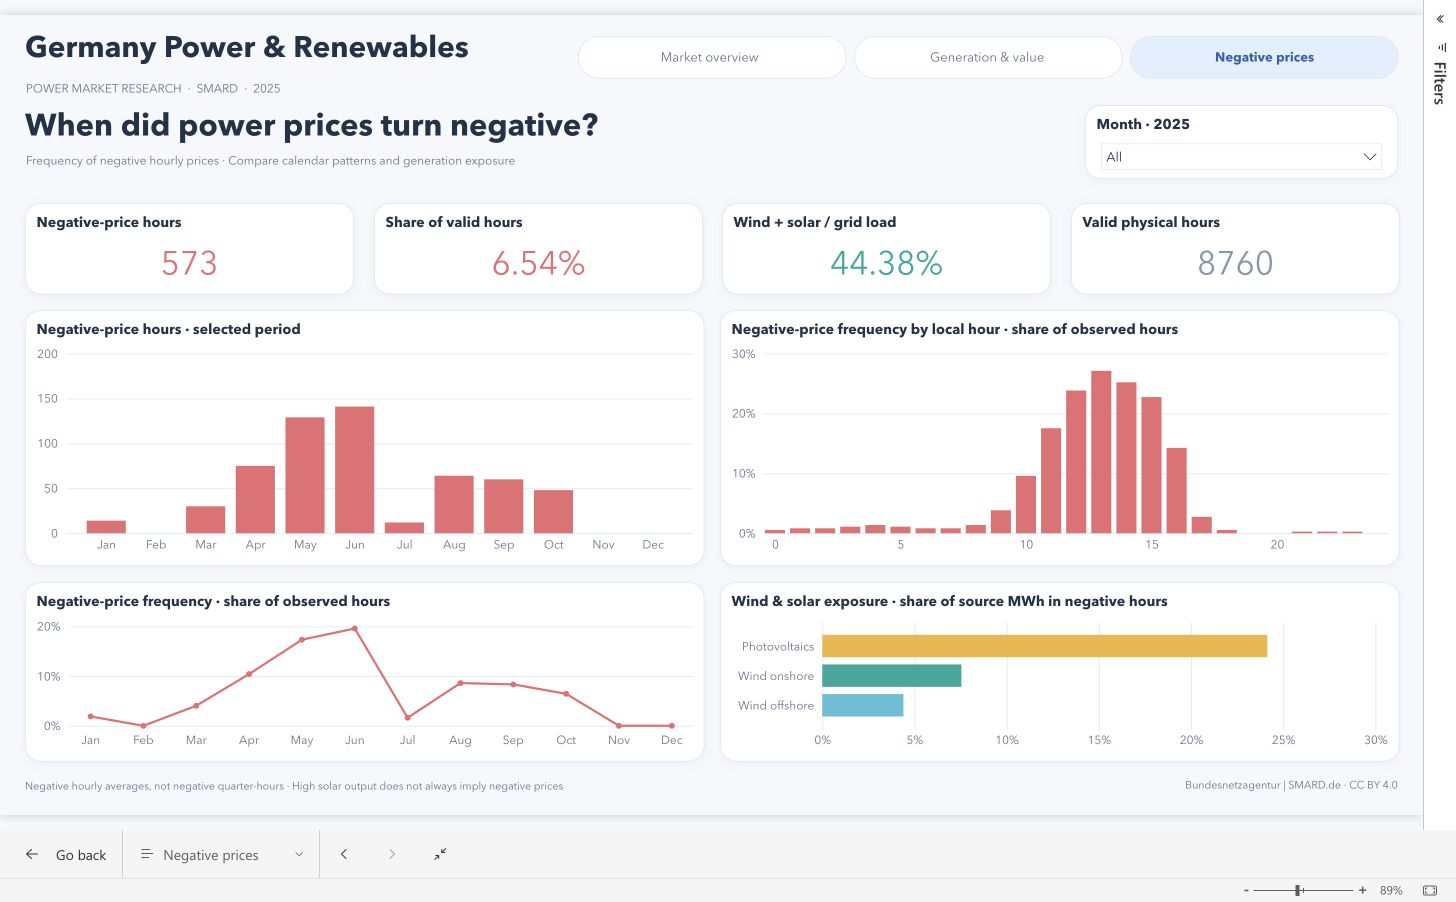
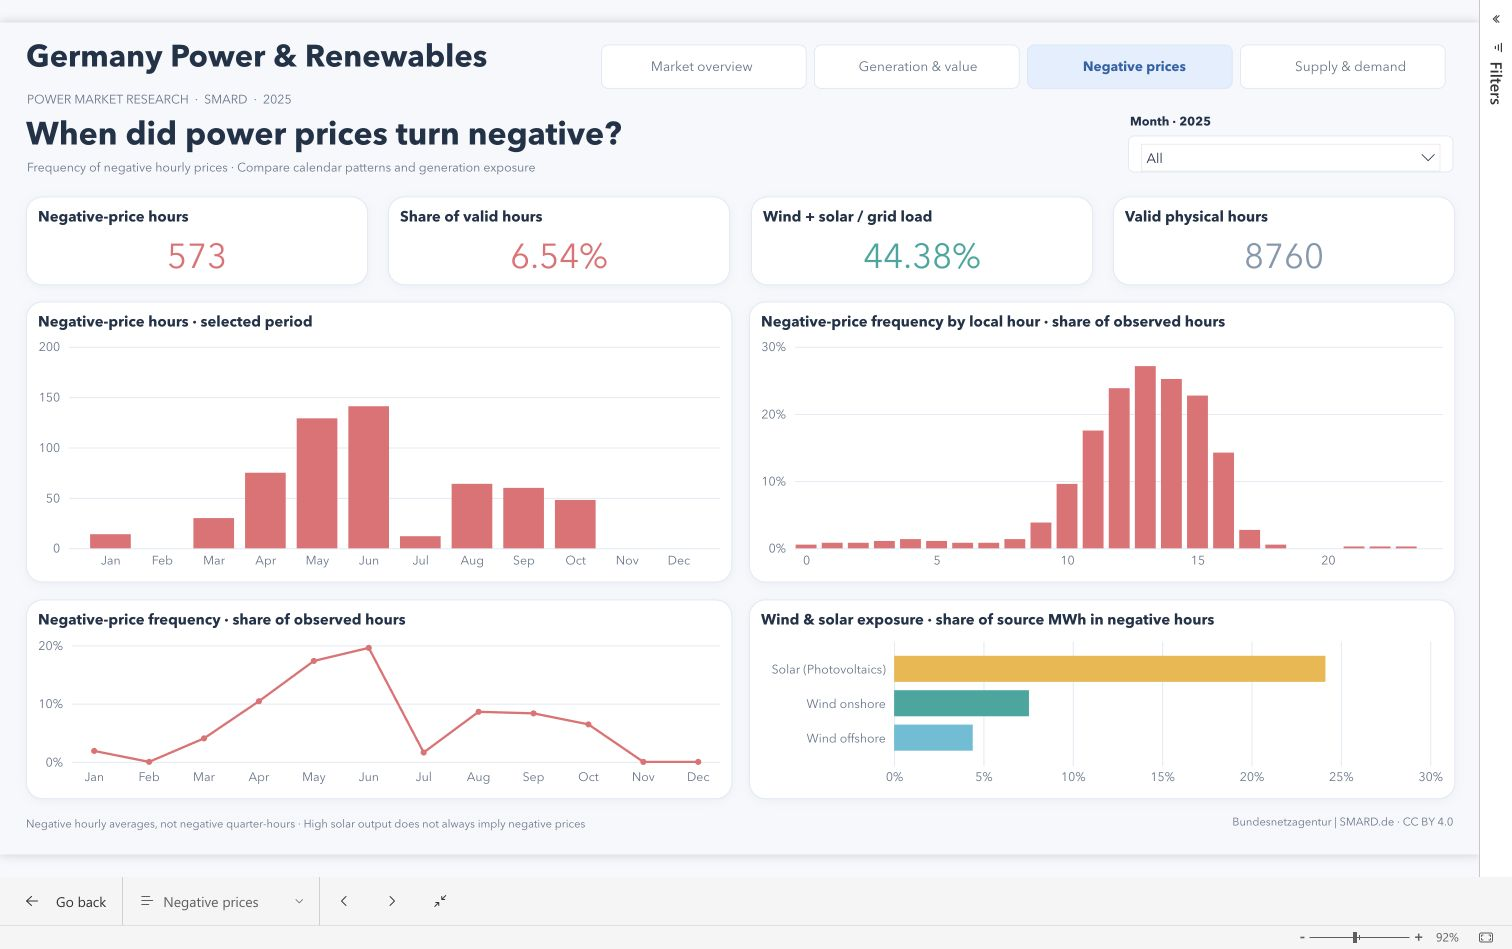
Document verified four-page report and capture Fabric evidence

diff --git a/README.md b/README.md
@@ -1,6 +1,6 @@
 # Germany Power & Renewables
 
-An applied research project examining how renewable generation and electricity demand align with German day-ahead prices. Microsoft Fabric provides the data preparation and validation environment; the Fabric-backed semantic model and three-page Power BI report are implemented, while unauthenticated public publication remains planned.
+An applied research project examining how renewable generation and electricity demand align with German day-ahead prices. Microsoft Fabric provides the data preparation and validation environment; the Fabric-backed semantic model and four-page Power BI report are implemented, while unauthenticated public publication remains planned.
 
 ## Research questions
 
@@ -40,11 +40,13 @@ The notebook collection separates source profiling, silver preparation, explorat
 
 The workspace is connected to GitHub. The `fabric/` directory contains the authoritative Fabric item definitions; `notebooks/` contains portable, output-free exports derived from that source. Captured outputs remain in `evidence/`, because Fabric Git integration versions source rather than notebook outputs. Source profiling and exploration are separate from the build flow. The silver build contains only input validation, transformation, quality gates and table publication; every code cell is part of the job.
 
-The semantic model `sm_power_renewables` contains five gold-model relationships and nineteen core measures, plus presentation metadata and nine report measures for the adaptive axis, colors and icons. The author confirmed the headline values in Fabric, and browser checks of the connected report verified annual totals, solar capture metrics, source selection and a June date filter. The [native report definition](fabric/rpt_power_renewables.Report) contains three pages: Market overview, Generation & value, and Negative prices. The visual style follows the author's Global Critical Materials report, with a cool white canvas, blue price series, gold solar output, teal wind and coral negative-price frequency.
+The semantic model `sm_power_renewables` contains five gold-model relationships and nineteen core measures, plus presentation metadata, nine report measures for the adaptive axis/colors/icons, and eight descriptive supply-and-demand measures. The author confirmed the headline values in Fabric, and browser checks of the connected report verified annual totals, solar capture metrics, source selection and a June date filter. The [native report definition](fabric/rpt_power_renewables.Report) contains four pages: Market overview, Generation & value, Negative prices, and Supply & demand. The Supply & demand page compares hourly price with residual load, wind and solar, and includes a month-by-local-hour mean-price heatmap. Its raw Pearson correlations are descriptive and recalculate for the month filter.
+
+The visual style follows the author's Global Critical Materials report, with a cool white canvas, blue price series, gold solar output, teal wind and coral negative-price frequency.
 
 ![Market overview rendered in Fabric](evidence/powerbi/01_market_overview.png)
 
-The report uses the existing Direct Lake model over gold; it contains no embedded copy of the source CSVs. Month selectors use calendar names and filter the individual page. A single selected month switches the timeline to days; multiple months use monthly values. Source colors and SVG icons are defined once in three small presentation tables; the five gold tables remain in Direct Lake mode. The generation-source selector changes the selected-source charts and cards, while the comparison table retains all sources for the selected months. Chart clicks do not cross-filter unrelated KPIs. Nuclear remains unavailable and is omitted where every measure is blank. Price exposure is not realized revenue or profit.
+The report uses the existing Direct Lake model over gold; it contains no embedded copy of the source CSVs. Generation-mix bars show percentages of reported generation, with TWh in tooltips; the denominator includes observed pumped-storage output and retains unavailable nuclear values as missing. Month selectors use calendar names and filter the individual page. A single selected month switches the timeline to days; multiple months use monthly values. Source colors and SVG icons are defined once in three small presentation tables; the five gold tables remain in Direct Lake mode. The generation-source selector changes the selected-source charts and cards, while the comparison table retains all sources for the selected months. Chart clicks do not cross-filter unrelated KPIs. Nuclear remains unavailable and is omitted where every measure is blank. Price exposure is not realized revenue or profit.
 
 Data Factory orchestration, unauthenticated public report publication and video remain planned deliverables. No pipeline execution or public access is claimed. The [semantic specification](model/semantic_model_spec.json), [measure definitions](model/semantic_measures.dax) and browser screenshots document the implemented components.
 

diff --git a/research/metrics_and_figures.md b/research/metrics_and_figures.md
@@ -124,10 +124,20 @@ The day-ahead price is formed before actual delivery. Actual generation and actu
 
 ## Interactive report: questions and interpretation
 
-The three report pages separate market context, source timing value and negative-price exposure. They answer different questions rather than presenting a causal price model. The market page compares price and load profiles with the full reported generation mix. The value page compares technologies against the same market-price benchmark. The negative-price page separates frequency in time from exposure weighted by source energy.
+The report separates market context, source timing value, negative-price exposure and supply-and-demand associations across four pages. They answer different questions rather than presenting a causal price model. The market page compares price and load profiles with the full reported generation mix. The value page compares technologies against the same market-price benchmark. The negative-price page separates frequency in time from exposure weighted by source energy.
 
 The annual load-weighted price of 92.42 EUR/MWh exceeds the time average of 89.32 by 3.10 EUR/MWh: consumption is relatively concentrated in more expensive hours. Solar captures 46.07 EUR/MWh, or 51.58% of the benchmark; combined wind captures 78.93, or approximately 88.37%. These describe profile value and are not profit margins. Negative prices occur in 6.54% of hours, but coincide with 24.13% of solar generation, indicating concentrated solar exposure. Pumped-storage output captures a high price, but pumping input costs, round-trip losses and operating costs are missing, so profitability cannot be inferred.
 
 The refreshed report uses full month names sorted chronologically. A single selected month switches the timeline to physical local dates; multiple months or the full year use monthly values. Every displayed price or ratio is recomputed at that grain. Daily negative-price shares use the actual 23, 24 or 25 physical hours, and capture rate remains unavailable when the selected period's benchmark is non-positive.
 
-Useful extensions on the existing data include a supply-and-demand page with residual load versus price, month-by-local-hour heatmaps, daily price distributions and the duration of negative-price episodes. Fuel prices, forecasts, flows and outages would support broader explanatory work. Their absence prevents causal attribution to a single technology, and the hourly export cannot recover quarter-hour settlement exposures.
+Further extensions on the existing data include daily price distributions and the duration of negative-price episodes. Fuel prices, forecasts, flows and outages would support broader explanatory work. Their absence prevents causal attribution to a single technology, and the hourly export cannot recover quarter-hour settlement exposures.
+
+## Supply & demand report page
+
+The three scatter plots place price on the vertical axis and residual load, wind or solar on the horizontal axis. Their details key is the UTC physical-hour key; power is expressed as average GW over each one-hour interval. A 10,000-point visual limit is configured for the 8,760-hour snapshot, while native high-density rendering may sample or merge overlapping points. The correlation cards use all valid selected hourly observations, independently of the rendered point selection.
+
+The price heatmap contains 12 calendar months and 24 local hours. Each cell is the time-average hourly exported day-ahead price for that month-hour group. For example, June at 13:00 averages -10.09 EUR/MWh across 30 hours, while June's overall average is 63.99. The blue cells denote a negative mean, not the frequency of negative hours. The five fixed bands are below 0, 0–50, 50–100, 100–150 and at least 150 EUR/MWh. DST coverage remains physical: March at 02:00 contains 30 hours and October at 02:00 contains 32. The March and October example means are 90.85 and 60.11 EUR/MWh.
+
+The generation-mix chart now plots each source as a share of all reported generation. Both the original source dimension and the presentation source dimension are removed from the denominator; month and market filters remain. This prevents each bar becoming 100% when the presentation source dimension drives the axis. Percentages can differ from 100% in the displayed sum due to rounding; TWh remains in tooltips.
+
+Additional hour-of-day views remain candidates, not implemented features: a typical-day mean price profile with percentile bands; average wind, solar, load and residual-load profiles; a daily date-by-hour price heatmap for the selected month; and generation-weighted negative-price exposure by hour. These distinguish calendar patterns, within-month variation and the timing of source volumes.

diff --git a/evidence/powerbi/README.md b/evidence/powerbi/README.md
@@ -10,7 +10,7 @@ Market and load-weighted prices, German grid load, renewable share of observed g
 
 ## Generation and value
 
-The selected source defaults to Solar (photovoltaics). Each source has a fixed color and an original inline SVG icon; the selected-source cards and charts reuse that color. The cards and monthly charts use the selected source. The comparison table retains all sources for the selected months. Capture price is generation-weighted day-ahead price exposure, not realized generator revenue or profit. Capture rate is a ratio to the same period's market average.
+The selected source defaults to Solar (Photovoltaics). Each source has a fixed color and an original inline SVG icon; the selected-source cards and charts reuse that color. The cards and monthly charts use the selected source. The comparison table retains all sources for the selected months. Capture price is generation-weighted day-ahead price exposure, not realized generator revenue or profit. Capture rate is a ratio to the same period's market average.
 
 ![Generation and value in Fabric](02_generation_value.png)
 
@@ -22,10 +22,18 @@ Counts and shares refer to negative hourly exported price values. The local-hour
 
 The report currently requires workspace authentication. An unauthenticated public link and walkthrough video have not been created. The source design follows the author's [Global Critical Materials](https://github.com/anastasia-klein/global-critical-materials-intelligence) report, with an expanded palette for electricity-market analysis.
 
-## Presentation update, 10 November 2026
+## Presentation update, verified 11 November 2026
 
-The refreshed report uses a cool white background and rounded, lightly tinted navigation. The declared font stack is `'Avenir Next', Arial, sans-serif`; the intended Mac rendering was checked in the browser, while other operating systems and server-side exports can use a fallback. Technical architecture text was removed from the page footer; its evidence remains in source definitions and this directory.
+The refreshed report uses a cool white background and rectangular, lightly tinted navigation with modest corner rounding. The declared font stack is `'Avenir Next', Arial, sans-serif`; the intended Mac rendering was checked in the browser, while other operating systems and server-side exports can use a fallback. Technical architecture text was removed from the page footer; its evidence remains in source definitions and this directory.
 
 A single selected month switches the timeline to days. Multiple selected months or the complete year retain monthly observations. The axis is a static 2025 presentation table; measures apply the corresponding local-date or month filter to the original hourly facts. None of the market data has been copied into the presentation tables.
 
 ![June daily detail in Fabric](04_daily_june.png)
+
+## Supply & demand
+
+The fourth page shows raw hourly associations between price and residual load, wind and solar, alongside a mean-price heatmap by month and local hour. Correlation measures use all matched selected observations; native scatter rendering may sample overlapping points. Heatmap colors refer to the mean price in each cell, not the share of negative hours.
+
+![Supply and demand in Fabric](05_supply_demand.png)
+
+The generation-mix page now shows source percentages and full source labels, while TWh is available on hover. The second page gives more width to its price chart and retains all values in the narrower source table. Source captions are consistently Solar (Photovoltaics). Filter labels have no enclosing panel; the value fields retain a light, slightly rounded border.
